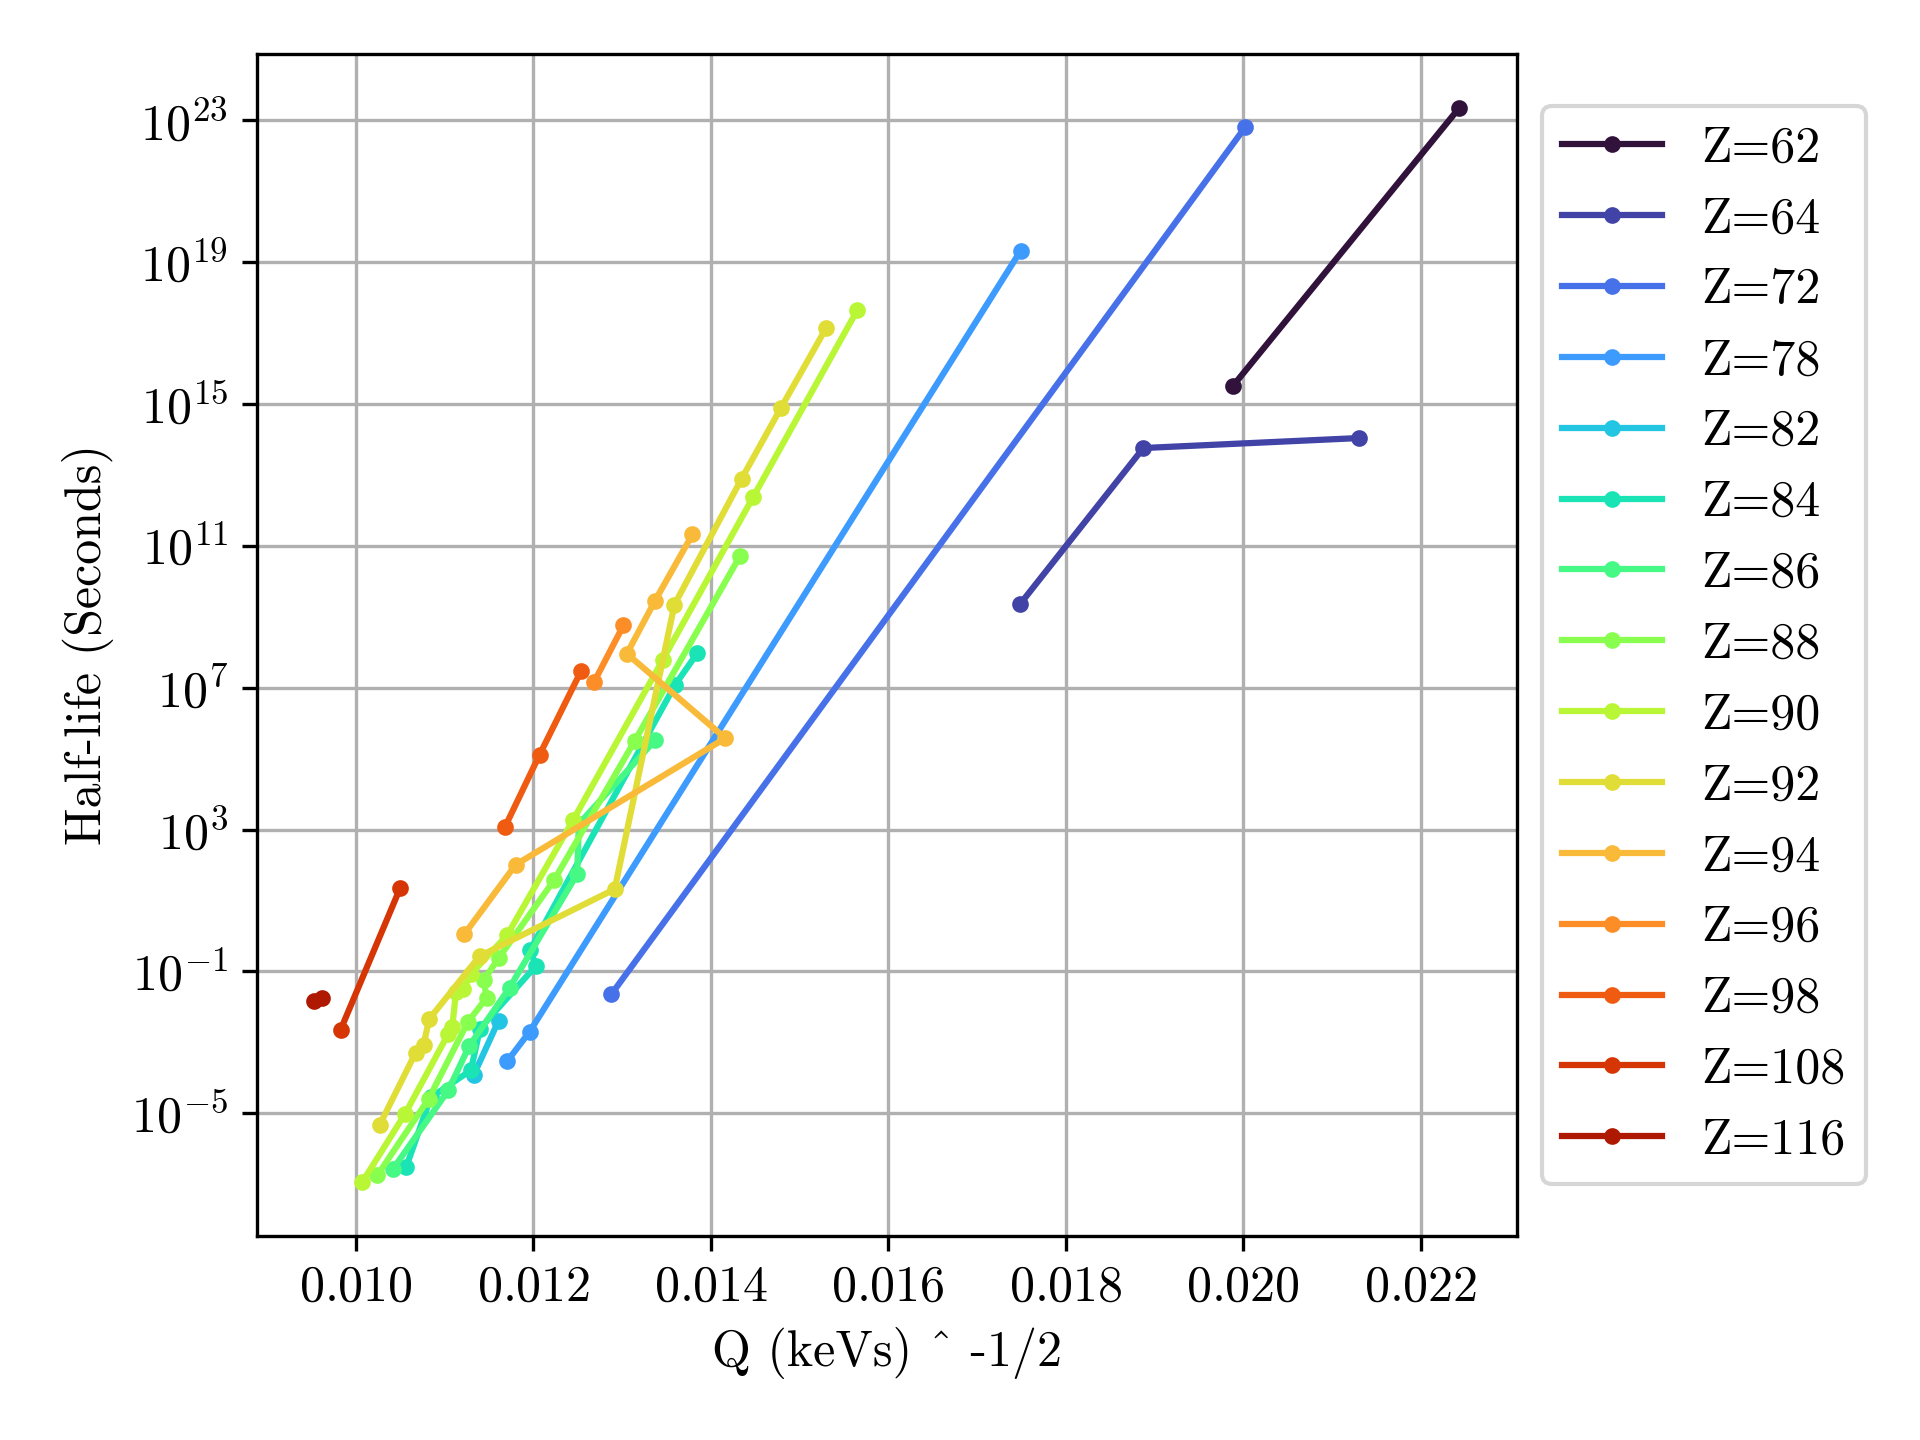
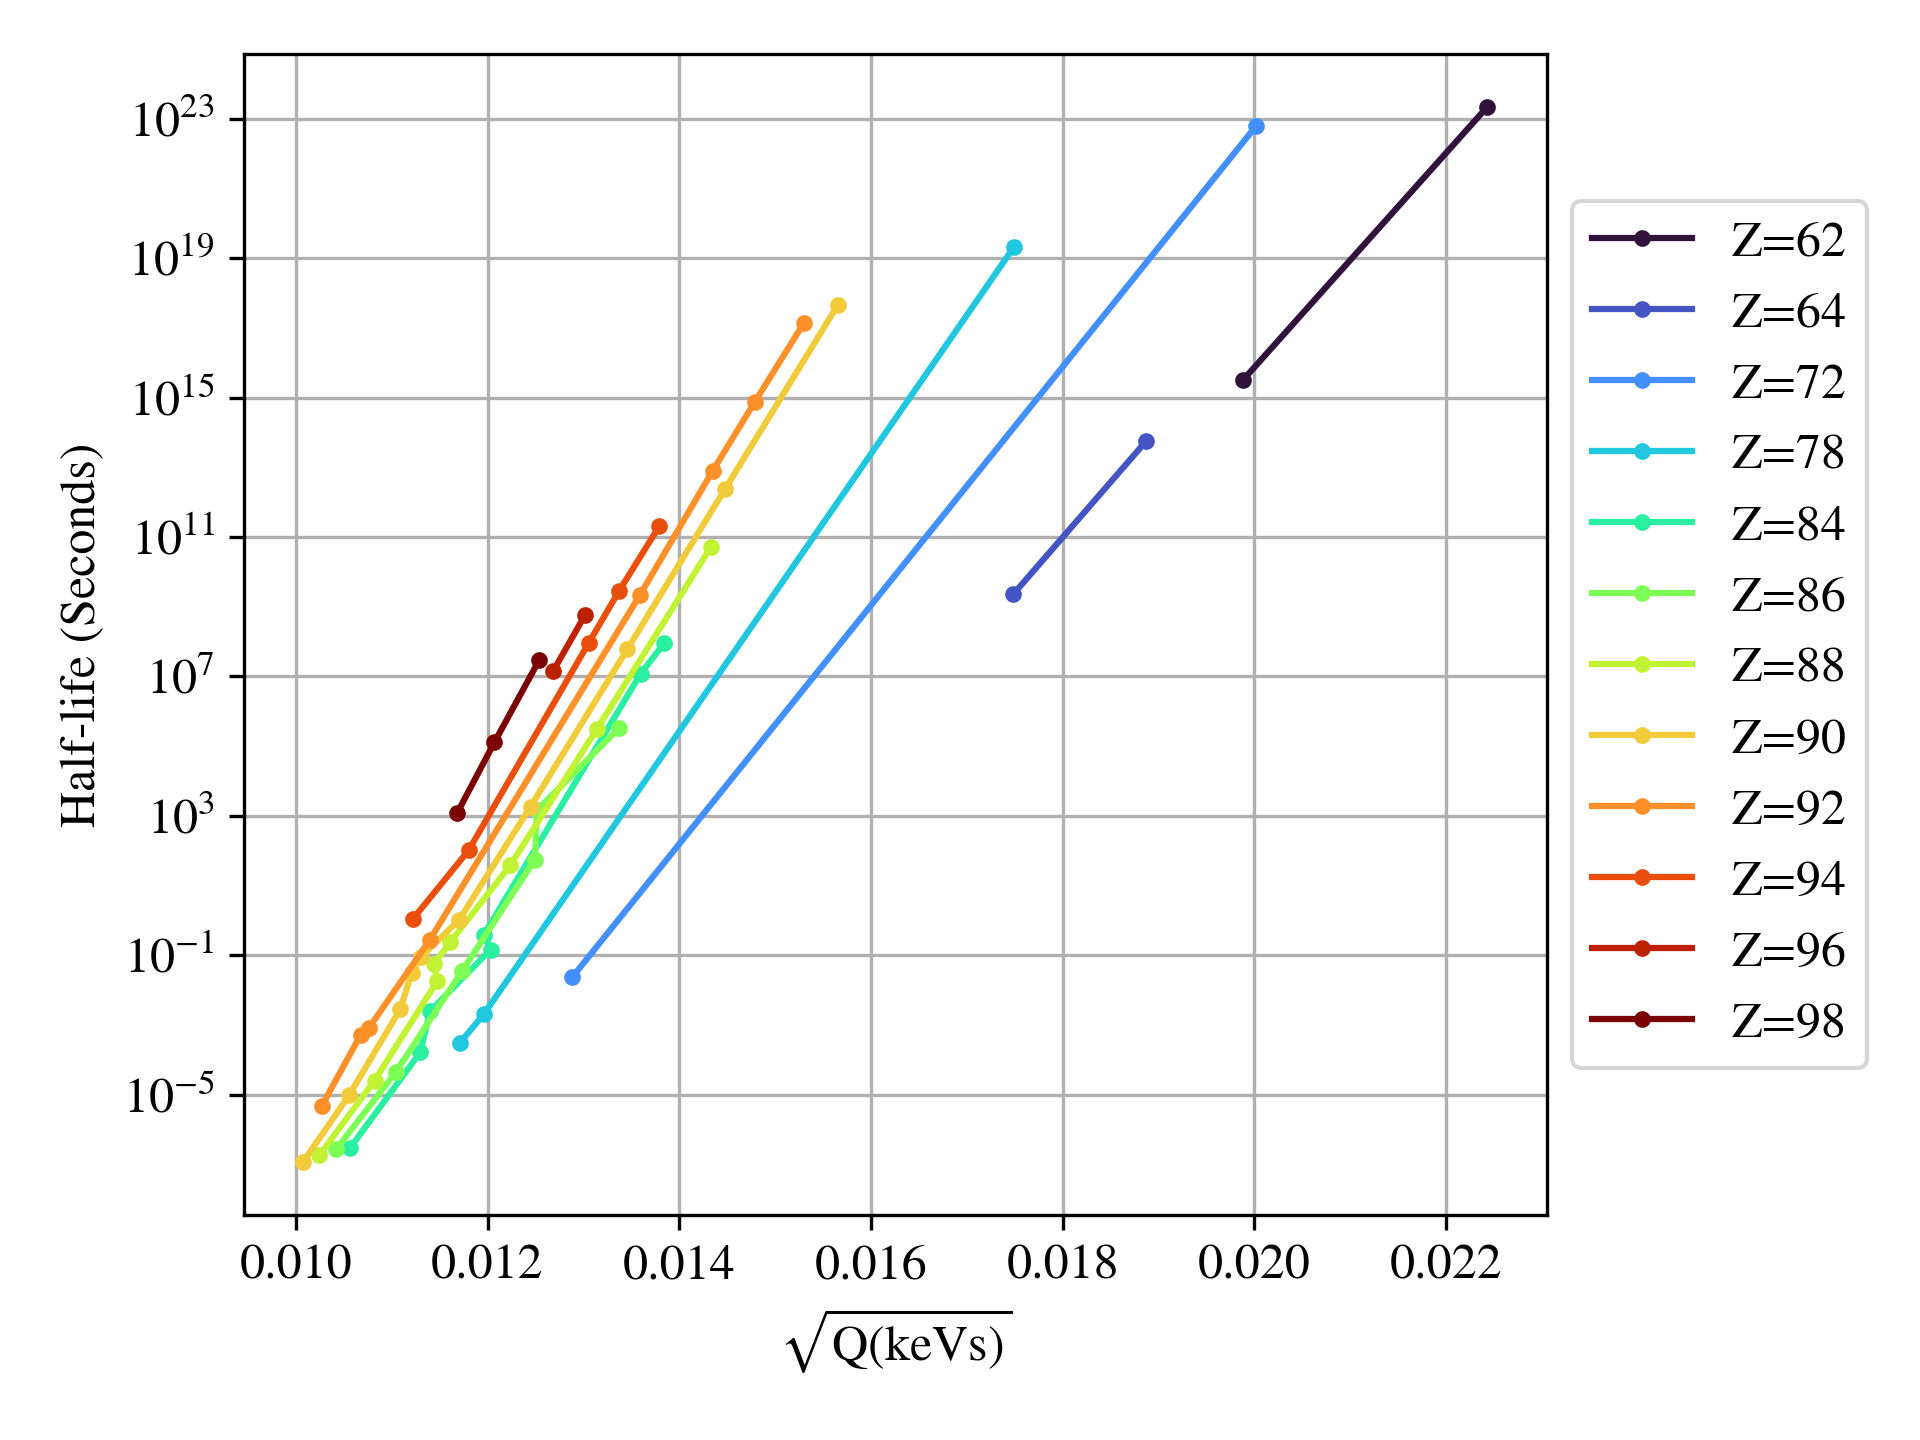
plot changes

diff --git a/main.py b/main.py
@@ -5,17 +5,11 @@ import csv
 import numpy as np
 import matplotlib.pyplot as plt
 import matplotlib as mpl
-from scipy import optimize
+from scipy import optimize, stats
 
-from pathlib import Path
-import matplotlib.font_manager as font_manager
-font_path = Path(mpl.get_data_path(), "fonts/ttf/cmr10.ttf")
-font_manager.fontManager.addfont(font_path)
-prop = font_manager.FontProperties(fname=font_path)
-plt.rcParams['font.family'] = 'sans-serif'
-plt.rcParams['font.sans-serif'] = prop.get_name()
 plt.rcParams['font.size'] = 12
-plt.rcParams["axes.formatter.use_mathtext"] = True
+mpl.rcParams['mathtext.fontset'] = 'stix'
+mpl.rcParams['font.family'] = 'STIXGeneral'
 
 from helper import *
 
@@ -28,9 +22,6 @@ with open('output.csv') as csv_file:
     for row in csv_reader:
         z, n, hl, hl_e  = float(row[0]), float(row[1]), float(row[2]), float(row[3])
         q, q_e, binding, binding_e = float(row[4]), float(row[5]), float(row[6]), float(row[7])
-
-
-        # print((z+n)*931000/binding)
 
         nuclei = Nuclei(z, n, hl, hl_e, q, q_e, binding, binding_e)
         data.append(nuclei)
@@ -56,8 +47,8 @@ for z in equal_z_temp:
         equal_z.pop(z)
 
 ############ geiger law ############
-if 0:
-    cmap = plt.get_cmap('turbo', 16)
+if 1:
+    cmap = plt.get_cmap('turbo', 12)
     for i, z in enumerate(equal_z):
         q_list = list()
         hl_list = list()
@@ -73,56 +64,54 @@ if 0:
 
 
     plt.ylabel('Half-life (Seconds)')
-    plt.xlabel('Q (keVs) ^ -1/2')
+    plt.xlabel(r'$\sqrt{\mathrm{Q (keVs)}}$')
     plt.legend(loc='center left', bbox_to_anchor=(1, 0.5))
     plt.grid()
     plt.tight_layout()
-    # plt.savefig('geiger.png', dpi=300)
+    plt.savefig('geiger.png', dpi=300)
     plt.show()
 
 ############ root finding ############
 if 1:
-    ## separete data into equal A lists
-    equal_a = dict()
-    for nuclei in data:
-        try:
-            equal_a[nuclei.a].append(nuclei)
-        except KeyError:
-            equal_a[nuclei.a] = [nuclei]
-    
-    ## find root
     x = []
     y = []
-    for a in equal_a:
-        for nuclei in equal_a[a]:
-            hl = nuclei.hl
-            Q = nuclei.q
-            Z = nuclei.z-2
-            A = a-4
-            """
-            CALCULAR A FREQUENCIA PARA CADA NUCLEO
-            """
-            fitter = Fit(35000, hl, Q, Z, A)
-            sol = fitter.find_root()
-
-            y.append(sol.x[0])
-            x.append(a)
-
+    for nuclei in data:
+        hl = nuclei.hl
+        Q = nuclei.q
+        Z = nuclei.z - 2
+        A = nuclei.z + nuclei.n - 4
+    
+        fitter = Fit(35000, hl, Q, Z, A)
+        sol = fitter.find_root()
+        
+        x.append(A+4)
+        y.append(sol.x[0])
+    
     ## plot roots
     x = np.asarray(x)
     y = np.asarray(y)
-    plt.plot(x,y, '.')
-    plt.ylim(0, 1e-14)
-    plt.grid()
+    plt.plot(x, y*1e15, '+', markersize=5, c='b')
 
     ## fit func
     def fit_func(x, r0):
         return r0 * x**(1/3)
 
     popt, pcov = optimize.curve_fit(fit_func, x, y)
+    print(f'a = {popt[0]} +- {np.sqrt(pcov[0,0])}')
     x_fit = np.linspace(0, 300, 300)
     y_fit = fit_func(x_fit, *popt)
-    plt.plot(x_fit, y_fit)
+    plt.plot(x_fit, y_fit*1e15, c='k')
 
-    print(popt)
+    estimated = fit_func(x, *popt)
+    estimated *= np.sum(y) / np.sum(estimated)
+    chi2, p_value = stats.chisquare(y, estimated, 1)
+    print(f'chi2 = {chi2}')
+    print(f'p_value = {p_value}')
+
+    plt.xlabel('A')
+    plt.ylabel('R (fm)')
+    plt.ylim(0, 10)
+    plt.grid()
+    plt.tight_layout()
+    plt.savefig('radius.png', dpi=300)
     plt.show()
